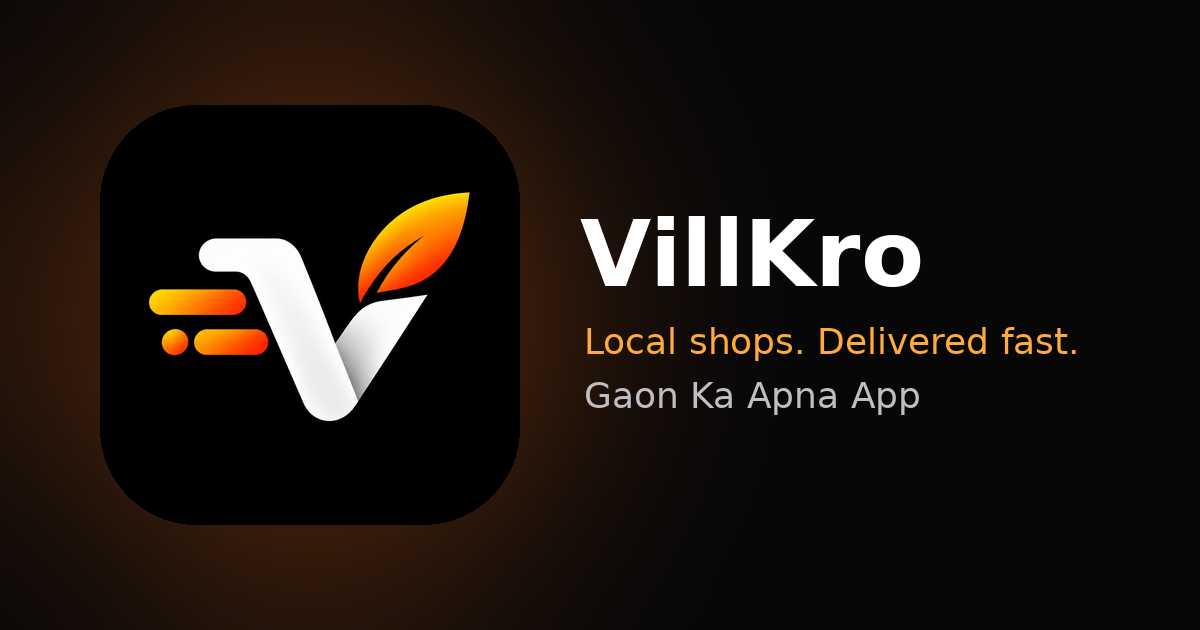
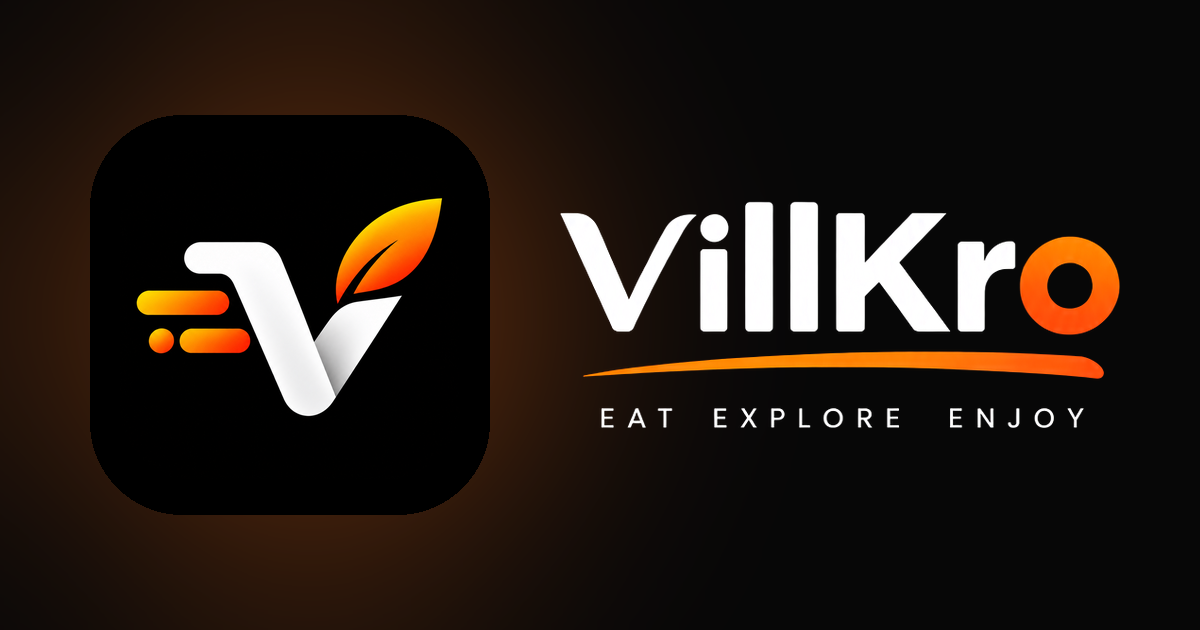
fix: website uses the new VillKro wordmark and neutral town-and-city wording — VillKro now runs in many places
- Landing: "VillKro / Eat Explore Enjoy" wordmark (cut from the app's
  splash) in the top bar, footer and /get/; share image rebuilt with it;
  "Gaon Ka Apna App" and Gorakhpur-only copy replaced with neutral
  towns-and-cities wording. Gorakhpur stays only as the office address.
- Policy pages: dropped "in Gorakhpur" from the service description;
  legal address and jurisdiction unchanged.
- Admin Delivery Zones: examples and help text no longer assume a village.

Changed region(s): [[0.4625, 0.3016, 0.9558, 0.6937], [0.0617, 0.1508, 0.4317, 0.8444]]

diff --git a/apps/landing/src/index.html b/apps/landing/src/index.html
@@ -6,14 +6,14 @@
   <meta name="theme-color" content="#0B0B0C">
   <meta name="color-scheme" content="dark">
   <title>VillKro - Local shops, delivered fast</title>
-  <meta name="description" content="VillKro is the hyperlocal delivery app for Gorakhpur, Haryana. Order groceries, food and daily essentials from shops you already trust, and track your order live.">
+  <meta name="description" content="VillKro is a local delivery app for towns and cities. Order groceries, food and daily essentials from shops you already trust, and track your order live.">
   <link rel="canonical" href="https://serveloco.app/">
   <meta name="robots" content="index, follow">
 
   <meta property="og:type" content="website">
   <meta property="og:url" content="https://serveloco.app/">
   <meta property="og:title" content="VillKro - Local shops, delivered fast">
-  <meta property="og:description" content="Groceries, food and daily essentials from neighbourhood shops, delivered to your door. Gaon Ka Apna App.">
+  <meta property="og:description" content="Groceries, food and daily essentials from neighbourhood shops, delivered to your door. Eat. Explore. Enjoy.">
   <meta property="og:image" content="https://serveloco.app/og-image.png">
   <meta property="og:image:width" content="1200">
   <meta property="og:image:height" content="630">
@@ -136,7 +136,9 @@
       box-shadow: 0 0 0 1px var(--line-2), 0 6px 20px rgba(255,106,0,0.25);
       transition: transform 0.5s var(--ease);
     }
-    .brand:hover img { transform: rotate(-8deg) scale(1.06); }
+    .brand:hover img:first-child { transform: rotate(-8deg) scale(1.06); }
+    .brand img.brand-name { width: auto; height: 22px; border-radius: 0; box-shadow: none; }
+    .foot-wordmark { width: 220px; height: auto; }
     .nav-links { display: flex; align-items: center; gap: 30px; }
     .nav-links a:not(.btn) { color: var(--text-2); font-weight: 600; font-size: 15px; transition: color 0.2s; }
     .nav-links a:not(.btn):hover { color: var(--text); }
@@ -561,7 +563,7 @@
     <div class="container nav-inner">
       <a href="/" class="brand" aria-label="VillKro home">
         <img src="/logo.png" alt="" width="36" height="36">
-        <span>VillKro</span>
+        <img class="brand-name" src="/wordmark-name.png" alt="VillKro" width="593" height="142">
       </a>
       <nav class="nav-links" id="navLinks">
         <a href="#features">Features</a>
@@ -582,7 +584,7 @@
       <div class="speed" aria-hidden="true"><i></i><i></i><i></i><i></i></div>
       <div class="container hero-grid">
         <div>
-          <span class="eyebrow"><span class="live-dot"></span><b>Live now</b> in Gorakhpur, Haryana</span>
+          <span class="eyebrow"><span class="live-dot"></span><b>Live now</b> in towns &amp; cities</span>
           <h1>
             <span class="word"><span style="animation-delay:.05s">Your</span></span>
             <span class="word"><span style="animation-delay:.12s">local</span></span>
@@ -687,14 +689,14 @@
       <div class="container">
         <div class="head reveal">
           <span class="kicker">Why VillKro</span>
-          <h2>Built for our town.<br><span class="grad-text">Made for our people.</span></h2>
+          <h2>Built for your neighbourhood.<br><span class="grad-text">Made for everyone.</span></h2>
           <p class="sub">Everything you need to shop from local stores, without leaving home.</p>
         </div>
         <div class="bento stagger">
           <article class="card wide">
             <div class="icon"><svg viewBox="0 0 24 24" fill="none" stroke="currentColor" stroke-width="2" stroke-linecap="round" stroke-linejoin="round"><path d="M3 9 4.5 4h15L21 9"/><path d="M4 9v11h16V9"/><path d="M3 9a3 3 0 0 0 6 0 3 3 0 0 0 6 0 3 3 0 0 0 6 0"/><path d="M10 20v-5h4v5"/></svg></div>
             <h3>Real shops from your area</h3>
-            <p>Order from the kirana stores, dairies and eateries you already visit &mdash; not faraway warehouses. Your money stays in your town.</p>
+            <p>Order from the kirana stores, dairies and eateries you already visit &mdash; not faraway warehouses. Your money stays local.</p>
           </article>
           <article class="card wide">
             <div class="icon"><svg viewBox="0 0 24 24" fill="none" stroke="currentColor" stroke-width="2" stroke-linecap="round" stroke-linejoin="round"><path d="M12 22s7-6.2 7-12a7 7 0 0 0-14 0c0 5.8 7 12 7 12z"/><circle cx="12" cy="10" r="2.5"/></svg></div>
@@ -766,7 +768,7 @@
         <div class="cta reveal">
           <div>
             <img class="cta-logo" src="/logo.png" alt="VillKro logo" width="72" height="72">
-            <span class="kicker">Gaon Ka Apna App</span>
+            <span class="kicker">Eat. Explore. Enjoy.</span>
             <h2>Download VillKro <span class="grad-text">today.</span></h2>
             <p class="sub">Free on Android and iPhone. Get your first order delivered today.</p>
             <div class="stores">
@@ -798,11 +800,11 @@
         <div class="faq stagger">
           <details>
             <summary>What is VillKro?</summary>
-            <div class="ans">VillKro is a delivery app for your town. You order from local shops near you &mdash; groceries, food, dairy and daily essentials &mdash; and a rider brings it to your door.</div>
+            <div class="ans">VillKro is a delivery app for towns and cities. You order from local shops near you &mdash; groceries, food, dairy and daily essentials &mdash; and a rider brings it to your door.</div>
           </details>
           <details>
             <summary>Where does VillKro deliver?</summary>
-            <div class="ans">We are live in Gorakhpur, Haryana. Open the app and set your location to see the shops that deliver to you.</div>
+            <div class="ans">VillKro runs in several towns and cities, and we keep adding new areas. Open the app and set your location to see the shops that deliver to you.</div>
           </details>
           <details>
             <summary>How do I pay?</summary>
@@ -830,8 +832,8 @@
     <div class="container">
       <div class="foot">
         <div>
-          <a href="/" class="brand"><img src="/logo.png" alt="" width="36" height="36"><span>VillKro</span></a>
-          <p>Gaon Ka Apna App. Fast home delivery from local shops in Gorakhpur, Haryana.</p>
+          <a href="/" aria-label="VillKro home"><img class="foot-wordmark" src="/wordmark.png" alt="VillKro - Eat, Explore, Enjoy" width="593" height="240" loading="lazy"></a>
+          <p>Fast home delivery from local shops, in towns and cities.</p>
         </div>
         <div>
           <h4>Product</h4>
@@ -855,13 +857,13 @@
           <ul>
             <li><a href="mailto:decodelabsofficial@gmail.com">decodelabsofficial@gmail.com</a></li>
             <li><a href="https://instagram.com/villkro" target="_blank" rel="noopener">Instagram &middot; @villkro</a></li>
-            <li>Gorakhpur, Haryana 125047</li>
+            <li>Office: Gorakhpur, Haryana 125047</li>
           </ul>
         </div>
       </div>
       <div class="foot-bottom">
         <span>&copy; 2026 VillKro Private Limited</span>
-        <span>Made with &#10084;&#65039; in Gorakhpur, Haryana</span>
+        <span>Made with &#10084;&#65039; in India</span>
       </div>
     </div>
   </footer>

diff --git a/apps/admin/src/pages/DeliveryZones.jsx b/apps/admin/src/pages/DeliveryZones.jsx
@@ -311,7 +311,7 @@ export default function DeliveryZones() {
     <>
       <td>
         <input type="text" className="form-input zone-input" value={form.name} required maxLength={MAX_NAME_LENGTH}
-          onChange={(e) => onChange('name', e.target.value)} placeholder="e.g. Rampur village" />
+          onChange={(e) => onChange('name', e.target.value)} placeholder="e.g. Rampur or Sector 14" />
       </td>
       <td>
         <select className="form-input zone-parent-select" value={form.parent_zone_id}
@@ -366,8 +366,8 @@ export default function DeliveryZones() {
       <div className="page-header">
         <h1>Delivery Zones</h1>
         <p className="page-subtitle">
-          Draw each zone as its own irregular boundary on the map — a big village zone, and
-          smaller sub-village zones inside it. Give a sub-village zone a parent and it always
+          Draw each zone as its own irregular boundary on the map — a big zone for a whole town,
+          city or village, and smaller sub-zones inside it. Give a sub-zone a parent and it always
           wins over its parent&apos;s pricing wherever the two overlap, no matter how small it is.
           Each zone gets its own charges, delivery times, night surcharge and Cash-on-Delivery
           policy.
@@ -503,7 +503,7 @@ export default function DeliveryZones() {
           </table>
         </div>
         {zones.length === 0 && (
-          <p className="zone-empty">No zones yet — draw your first one above (e.g. your main village).</p>
+          <p className="zone-empty">No zones yet — draw your first one above (e.g. your main town or city).</p>
         )}
       </div>
     </div>

diff --git a/apps/landing/src/get/index.html b/apps/landing/src/get/index.html
@@ -20,6 +20,7 @@
     body { margin: 0; min-height: 100vh; display: grid; place-items: center; padding: 24px 16px; box-sizing: border-box;
       font-family: -apple-system, BlinkMacSystemFont, "Segoe UI", Roboto, sans-serif; background: #0B0B0C; color: #F5F5F7; text-align: center; }
     img { width: 88px; height: 88px; border-radius: 24px; margin: 0 auto 20px; display: block; box-shadow: 0 16px 40px rgba(255,106,0,0.3); }
+    img.wm { width: 200px; height: auto; border-radius: 0; box-shadow: none; }
     h1 { font-size: 26px; margin: 0 0 8px; }
     p { color: #A1A1AA; margin: 0 0 28px; }
     a { display: block; margin: 0 auto 12px; max-width: 280px; padding: 14px 20px; border-radius: 14px; font-weight: 700; text-decoration: none;
@@ -30,8 +31,9 @@
 </head>
 <body>
   <main>
-    <img src="/logo.png" alt="VillKro logo">
-    <h1>Get VillKro</h1>
+    <img src="/logo.png" alt="">
+    <img class="wm" src="/wordmark.png" alt="VillKro - Eat, Explore, Enjoy">
+    <h1>Get the app</h1>
     <p>Choose your phone's app store.</p>
     <a class="play" href="https://play.google.com/store/apps/details?id=com.yashsiwach.villkro">Google Play (Android)</a>
     <a href="https://apps.apple.com/in/app/villkro-smart-food-delivery/id6800449391">App Store (iPhone)</a>

diff --git a/apps/api/public/policies/terms.html b/apps/api/public/policies/terms.html
@@ -22,7 +22,7 @@
   <p>By using VillKro you agree to these terms.</p>
 
   <h2>2. Service</h2>
-  <p>VillKro is a hyperlocal marketplace connecting customers with local vendors in Gorakhpur, Haryana and surrounding areas. We are not a party to the sale between you and the vendor.</p>
+  <p>VillKro is a hyperlocal marketplace connecting customers with local vendors in the areas where VillKro operates. We are not a party to the sale between you and the vendor.</p>
 
   <h2>3. Accounts</h2>
   <p>One account per person. You must use a valid Indian phone number. You are responsible for all orders placed under your account.</p>

diff --git a/apps/api/public/policies/index.html b/apps/api/public/policies/index.html
@@ -16,7 +16,7 @@
 <body>
   <img src="/policies/logo.png" alt="VillKro logo" width="72" height="72" style="display:block;margin:0 auto 12px;border-radius:18px;">
   <h1>VillKro</h1>
-  <p>Hyperlocal marketplace for fast home delivery in Gorakhpur, Haryana.</p>
+  <p>Hyperlocal marketplace for fast home delivery.</p>
   <p>
     <a href="/policies/privacy">Privacy Policy</a>
     <a href="/policies/terms">Terms of Service</a>
